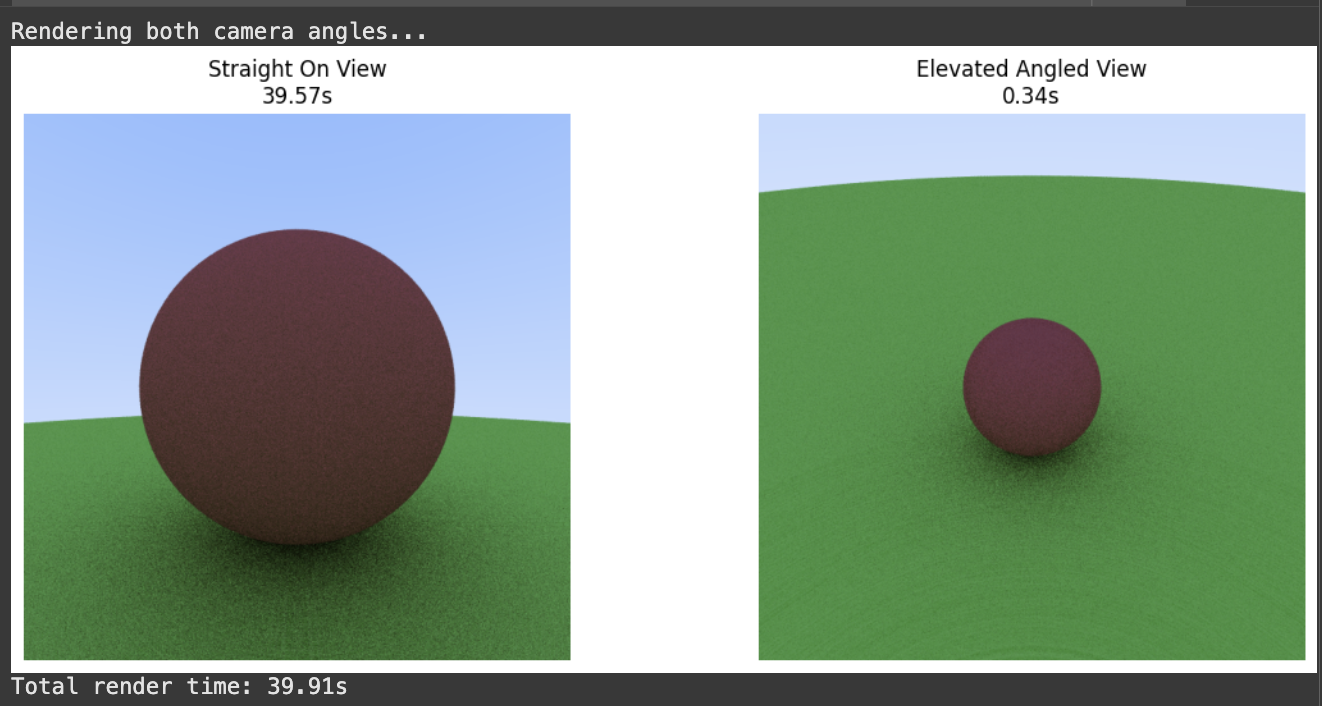
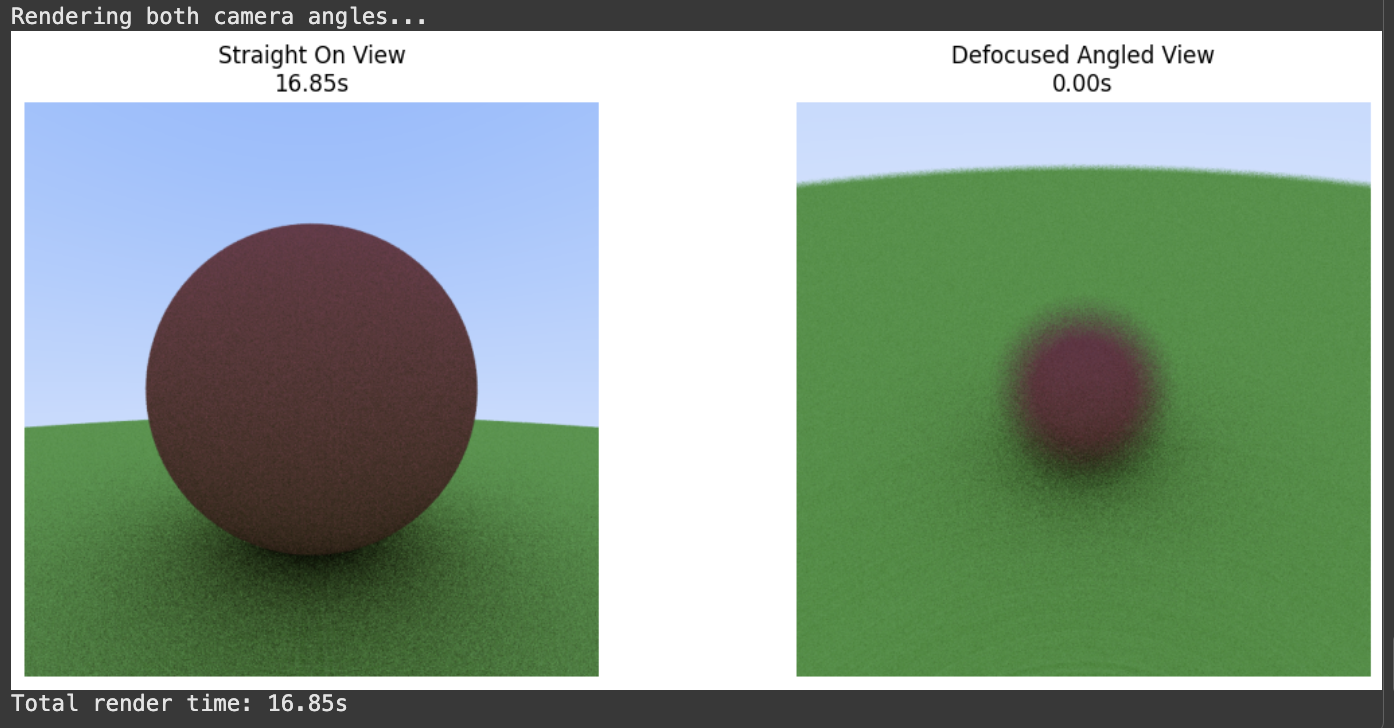
more

diff --git a/_posts/2025-09-11-jax-ray-tracing.md b/_posts/2025-09-11-jax-ray-tracing.md
@@ -373,11 +373,11 @@ def ray_color_diffuse(ray_origin, ray_direction, centers, radii, material_ids, m
   
   # Lambertian scattering
   key1, key2 = jax.random.split(rng_key)
-  scatter_direction = normal + random_unit_vector_jax(key1)
+  scatter_direction = normalize(normal + random_unit_vector_jax(key1)) 
 
   # Recursive bounce
   bounced_color = ray_color_diffuse(
-      p + 1e-6 * normal, scatter_direction, centers, radii, material_ids, material_albedos, key2, depth + 1, max_depth
+      p + 0.001 * normal, scatter_direction, centers, radii, material_ids, material_albedos, key2, depth + 1, max_depth
   )
   
   # Sky color
@@ -448,25 +448,16 @@ def create_positionable_camera(image_width, image_height, vfov, lookfrom, lookat
 
 ```python
 def random_in_unit_disk_jax(key):
-    """Generate a random point in the unit disk using rejection sampling"""
-    def body_fn(carry):
-        key, _ = carry
-        key, subkey = jax.random.split(key)
-        # Generate random point in [-1,1] x [-1,1] square
-        p = jax.random.uniform(subkey, (2,), minval=-1.0, maxval=1.0)
-        # Check if it's in the unit circle
-        length_squared = jnp.dot(p, p)
-        return key, (p, length_squared)
+     """Fixed random point in unit disk"""
+    # Generate random angle and radius
+    key1, key2 = jax.random.split(key, 2)
+    angle = jax.random.uniform(key1, minval=0.0, maxval=2.0 * jnp.pi)
+    r = jnp.sqrt(jax.random.uniform(key2, minval=0.0, maxval=1.0))  # sqrt for uniform distribution
     
-    def cond_fn(carry):
-        _, (p, length_squared) = carry
-        return length_squared >= 1.0  # Continue while outside unit circle
-    
-    key, _ = jax.lax.while_loop(cond_fn, body_fn, (key, (jnp.zeros(2), 2.0)))
-    _, (p, _) = body_fn((key, None))
-    
-    # Return as 3D vector with z=0
-    return jnp.array([p[0], p[1], 0.0])
+    # Convert to cartesian
+    x = r * jnp.cos(angle)
+    y = r * jnp.sin(angle)
+    return jnp.array([x, y, 0.0]) 
 
 def defocus_disk_sample(key, camera_center, defocus_disk_u, defocus_disk_v):
     """Returns a random point in the camera defocus disk"""
@@ -709,32 +700,56 @@ After making some new `trace_pixel()` and `render()` wrapper functions, we get:
 
 ### A Final Render
 
-Now it's time create the iconic final scene from the tutorial with lots and lots of spheres!! _(The details of `create_hella_balls_scene()` aren't really relevant -- the main point is that there are lots of balls with lots of different materials)_
+Now it's time create the iconic final scene from the tutorial with lots and lots of spheres!! _(The details of `create_hella_balls_scene()` aren't really relevant -- the main point is that there are lots of balls with lots of different materials. I also had to implement some batching to get around the memory constraints.)_
 
-Viola!!
+I added some simple gamma correction (gamma = 2.2, so we take square root for approximate 2.0) to the rendering pipeline for better coloring, which can be done using this line:
+
+```python
+jnp.sqrt(jnp.clip(linear_color, 0.0, 1.0))
+```
+
+With `max_depth = 10` and `samples_per_pixel = 12`: 
 
 <div class="align-center">
-    <img src="/public/jax/final.png"/>
+    <img src="/public/jax/compare.png" width ="300px"/>
 </div>
 
-Subsequent renders are fast because JAX caches the JIT-compiled functions. As long as you keep the same image dimensions (static arguments), changing camera position, materials, or scene geometry doesn't trigger recompilation - JAX reuses the optimized machine code:
+
+With `max_depth = 10` and `samples_per_pixel = 500` after gamma correction:
+
+<div class="align-center">
+    <img src="/public/jax/gamma.png"/>
+</div>
+
+Subsequent renders are fast because JAX caches the JIT-compiled functions. As long as you keep the same image dimensions (static arguments), changing camera position, materials, or scene geometry doesn't trigger recompilation - JAX reuses the optimized machine code. 
 
 <div style="display: grid; grid-template-columns: 1fr 1fr; gap: 10px; max-width: 800px; margin: 20px auto;">
   <div style="text-align: center;">
-    <img src="/public/jax/first_render.png" style="width: 100%; height: auto; border-radius: 8px;">
+    <img src="/public/jax/v1.png" style="width: 100%; height: auto; border-radius: 8px;">
   </div>
   <div style="text-align: center;">
-    <img src="/public/jax/another.png" style="width: 100%; height: auto; border-radius: 8px;">
+    <img src="/public/jax/v2.png" style="width: 100%; height: auto; border-radius: 8px;">
   </div>
   <div style="text-align: center;">
-    <img src="/public/jax/top.png" style="width: 100%; height: auto; border-radius: 8px;">
+    <img src="/public/jax/v3.png" style="width: 100%; height: auto; border-radius: 8px;">
   </div>
   <div style="text-align: center;">
-    <img src="/public/jax/front.png" style="width: 100%; height: auto; border-radius: 8px;">
+    <img src="/public/jax/v4.png" style="width: 100%; height: auto; border-radius: 8px;">
   </div>
 </div>
 
-Speed comes from: (a) No recompilation for non-static argument changes, (b) Vectorized operations processing millions of rays in parallel, and (c) XLA optimizations like operation fusion and memory layout optimization. 
+Speed comes from: (a) no recompilation for non-static argument changes, (b) vectorized operations processing millions of rays in parallel, and (c) XLA optimizations like operation fusion and memory layout optimization. 
+
+For reference, these image generated in Rust on my machine took 1244.58 seconds (a little over 20 minutes) and 1236.66 seconds. The first had `max_depth=20` and the second was `max_depth=10` (both `samples_per_pixel = 500`). (_The Rust version looks slightly different, maybe a bit more "high quality", but I think it's just due to some small implementation details like PNRG and different epsilon calculations_.)
+
+<div style="display: grid; grid-template-columns: 1fr 1fr; gap: 10px; max-width: 800px; margin: 20px auto;">
+  <div style="text-align: center;">
+    <img src="/public/jax/rust.png" style="width: 100%; height: auto; border-radius: 8px;">
+  </div>
+  <div style="text-align: center;">
+    <img src="/public/jax/rust2.png" style="width: 100%; height: auto; border-radius: 8px;">
+  </div>
+</div>
 
 _Again if you want to play around for yourself, [here](https://colab.research.google.com/drive/1A5afhu5yGbXSaUFWWFPHotGMWy6Ao1DN?usp=sharing) is the Colab!_
 
